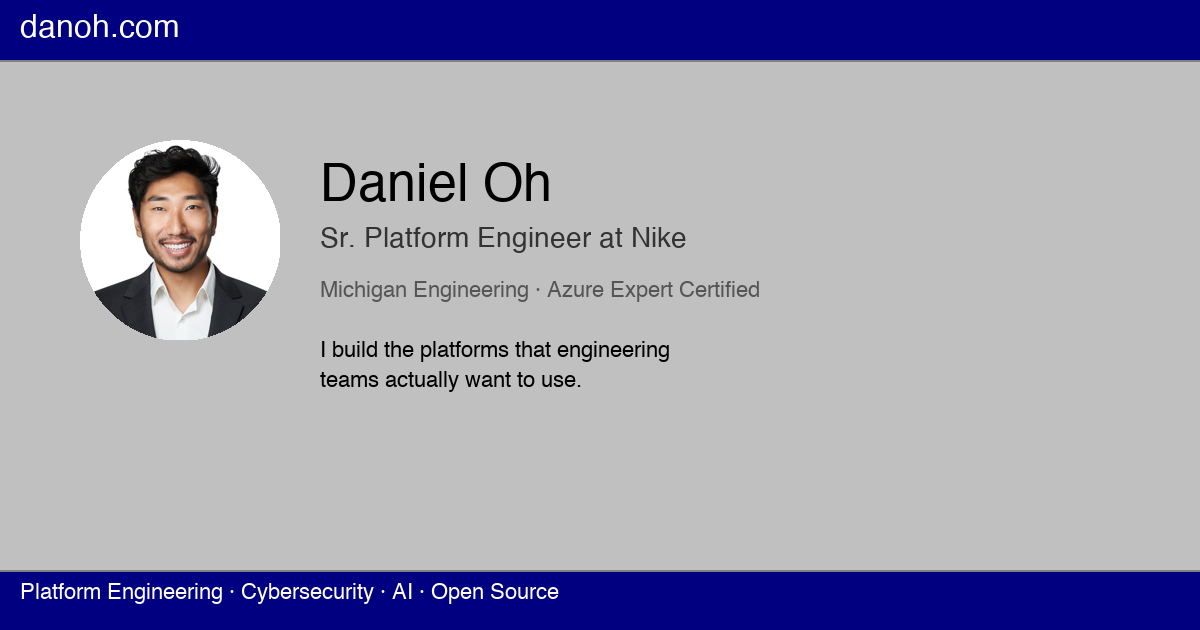
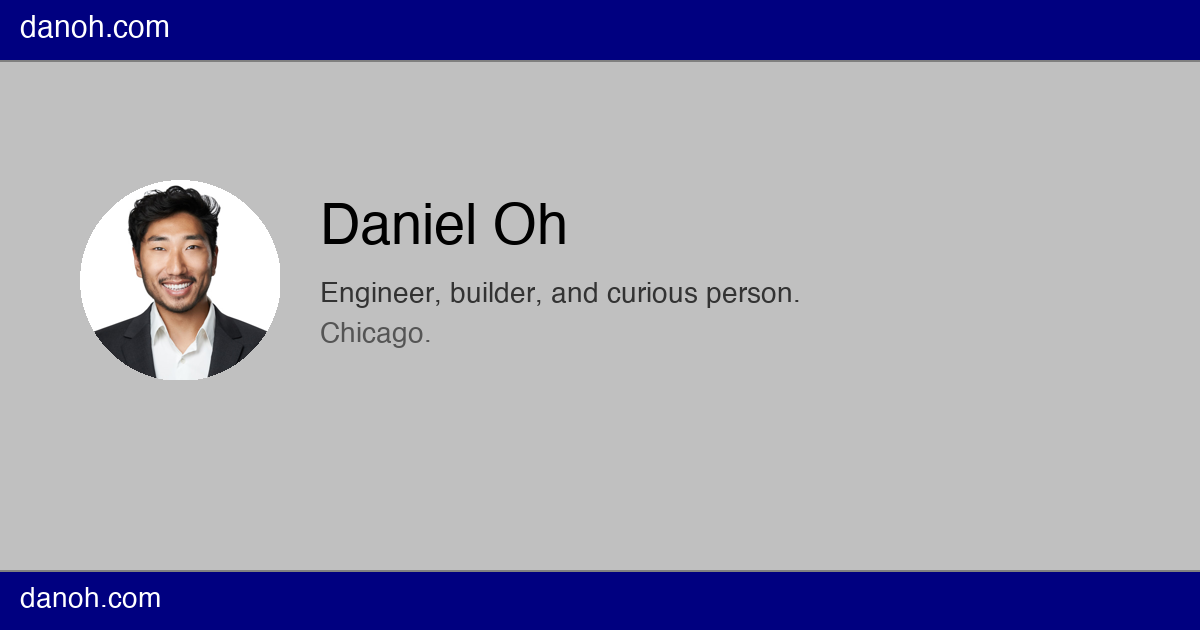
Minimal SEO copy: person-focused, not resume-focused
Title: "Daniel Oh"
Description: "Engineer, builder, and curious person. Chicago."
OG image updated to match minimal tone.

Changed region(s): [[0.0617, 0.2111, 0.6783, 0.6333], [0.0, 0.9048, 0.4625, 0.9651], [0.0, 0.0302, 0.1542, 0.0603]]

diff --git a/app/layout.tsx b/app/layout.tsx
@@ -8,12 +8,12 @@ import { APIProvider } from "@/lib/api/APIProvider";
 const inter = Inter({ subsets: ["latin"], display: "swap" });
 
 export const metadata: Metadata = {
-  title: "Daniel Oh | Platform Engineer & Builder",
-  description: "Sr. Platform Engineer at Nike. I build the platforms that engineering teams actually want to use. Michigan Engineering. Azure Expert certified. Five ventures on the side.",
+  title: "Daniel Oh",
+  description: "Engineer, builder, and curious person. Chicago.",
   metadataBase: new URL("https://danoh.com"),
   openGraph: {
-    title: "Daniel Oh | Platform Engineer & Builder",
-    description: "I build the platforms that engineering teams actually want to use. Explore my retro AI-powered desktop, generate apps on the fly, and check out what I'm working on.",
+    title: "Daniel Oh",
+    description: "Engineer, builder, and curious person. Chicago.",
     url: "https://danoh.com",
     siteName: "danoh.com",
     images: [
@@ -21,7 +21,7 @@ export const metadata: Metadata = {
         url: "/og-image.png",
         width: 1200,
         height: 630,
-        alt: "Daniel Oh - Sr. Platform Engineer at Nike",
+        alt: "Daniel Oh",
       },
     ],
     locale: "en_US",
@@ -29,8 +29,8 @@ export const metadata: Metadata = {
   },
   twitter: {
     card: "summary_large_image",
-    title: "Daniel Oh | Platform Engineer & Builder",
-    description: "I build the platforms that engineering teams actually want to use. Explore my retro AI-powered desktop.",
+    title: "Daniel Oh",
+    description: "Engineer, builder, and curious person. Chicago.",
     images: ["/og-image.png"],
   },
   robots: {
